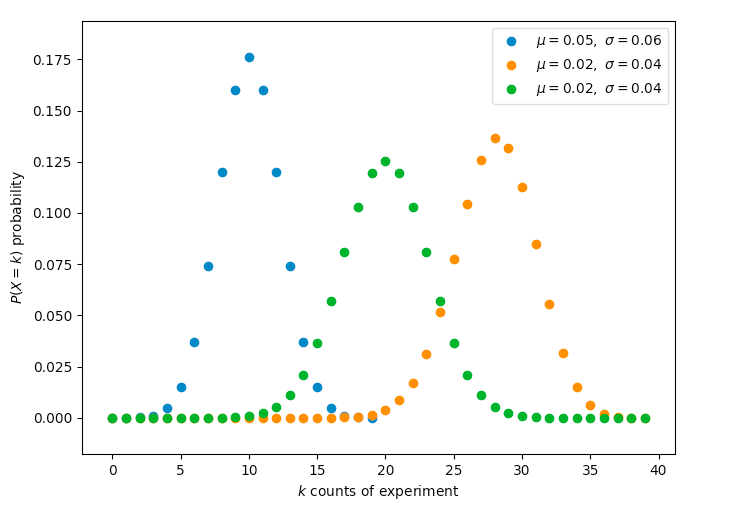
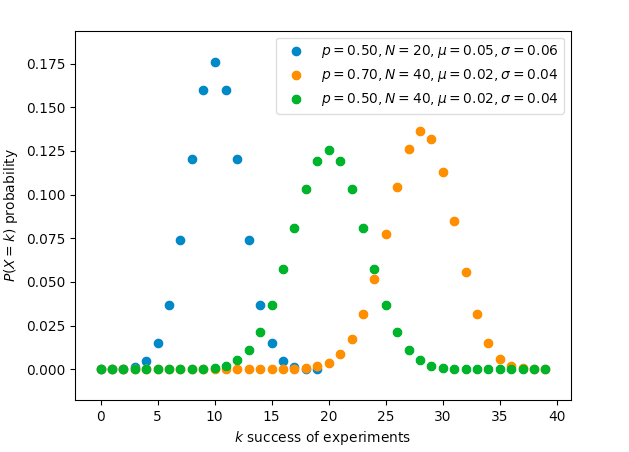
[Content] All_about_the_distribution multi-nomial 多項分佈

diff --git a/demo/multinomial.py b/demo/multinomial.py
@@ -15,6 +15,7 @@ def factorial(n):
 def const(n, a, b, c):
     """
         return n! / a! b! c!, where a+b+c == n
+        這裏只考慮的排列數，而沒有加入每個category的機率，因此output並分一個機率分佈
     """
     assert  a + b + c == n
 
@@ -29,6 +30,9 @@ def multinomial(n):
     :param p: list, sum(p) should be `1`
     """
     # get all a,b,c where a+b+c == n, a<b<c
+    # i,j,k,指的是發生事件的次數when n = 20, (i,j,k) = (1,1,18), (2,1,17),...
+    # 組合ls總共33種可能，接著再輸入const這個function
+    # 這裡忽略了(0,0,20)的可能性, 都從1開始
     ls = []
     for i in range(1, n + 1):
         for j in range(i, n + 1):
@@ -45,5 +49,7 @@ for n_experiment in [20, 21, 22]:
     plt.scatter(x, y, label=r'$trial=%d$' % (n_experiment))
 
 plt.legend()
+# plt.xlabel('k-th combination')
+plt.ylabel('Numbers of combination')
 plt.show()
 plt.savefig('graph/multinomial.png')

diff --git a/demo/binomial.py b/demo/binomial.py
@@ -23,10 +23,10 @@ for ls in [(0.5, 20), (0.7, 40), (0.5, 40)]:
     p, n_experiment = ls[0], ls[1]
     x = np.arange(n_experiment)
     y, u, s = binomial(n_experiment, p)
-    plt.scatter(x, y, label=r'$\mu=%.2f,\ \sigma=%.2f$' % (u, s))
+    plt.scatter(x, y, label=r'$ p=%.2f, N = %.0f, \mu=%.2f, \sigma=%.2f$' % (p, n_experiment, u, s))
 
 
-plt.xlabel('$k$ counts of experiment')
+plt.xlabel('$k$ success of experiments')
 plt.ylabel('$P(X=k)$ probability')
 plt.legend()
 plt.show()

diff --git a/All_about_the_distribution.md b/All_about_the_distribution.md
@@ -3,6 +3,8 @@
 * Modified : YLTsai0609 / distribution, and applications
 * spirit : Understanding first, mathematcs second.
 <img src ='/images/distribution_1.png'></img>
+* `conjugate`意思為共軛分佈
+[TODO] https://read01.com/7K2am8.html#.Xcw5gpIzZE4
 
 2. Bernoulli distribtuion(discrete), [code](demo/bernoulli.py)
    * 成功是1, 失敗是0，成功機率為p
@@ -11,8 +13,8 @@
    * 白努力分佈不考慮先驗機率(prior probability $P(x)$)，如果我們最大化可能性(likelihood)，我們非常容易overfitting
    * 二元分類問題所使用的loss function : **ninary cross entropy**在數學上的形式即一個  $-logP_{bernoulli}(x)$
 
-
-3. Binomial distribution(discrete), code
+<br>
+3. Binomial distribution(discrete), [code](/demo/binomial.py)
    * n個**獨立**的是/非試驗中成功次數的離散機率分佈
    * 就是多次的Bernoulli試驗，有成功機率$p$，有試驗數$n$，因此就有mean, variance, 形成一個distribution
 <img src ='/images/distribution_3.png'></img>
@@ -24,19 +26,52 @@
 $$
    * 參數: $n, p, k$
    * Binomial distribution is distribution considered prior probaility by specifying the number to be picked in advance.
+   * 舉例 : 
+     * 特定醫院特定一天中 : 出生的小孩有多少是女的
+     * 特定教室，多少學生是綠色眼睛
+     * 骰子共六面，摋出5,6算是成功，摋100次，成功73次的機率是多少
+     * 在一個城市做市場調查，連續遇到7喜歡喝珍珠奶茶的人的機率
+   * 應用場景 : 
 
-4. Multi-Bernoulli distribution (discrete), [code](demo/categorical.py)
+1. Multi-Bernoulli distribution (discrete), [code](demo/categorical.py)
    * a.k.a categorical distribution
    * 白努力分佈的多重版本，這裡舉例有3個類別
    * 一個隨機變數$X$，有0.7的機率指向到A事件，0.2的機率指向到B事件，0.1的機率指向到C事件
 <img src ='/images/distribution_4.png'></img>
 
-5. Multinomial distribution
+5. Multinomial distribution(discrete) [code](/demo/graph/multinomial.png)
    * 關係和Bernoulli <--> Bonominal 一樣, a.k.a 多項分佈
    * 熱力學有用到，可以找一下公式
    * n個**獨立**的A/B/C試驗中成功次數的離散機率分佈
-   * [TODO](https://baike.baidu.com/item/%E5%A4%9A%E9%A1%B9%E5%88%86%E5%B8%83)
-   * 就是多次的Bernoulli試驗，有成功機率$p$，有試驗數$n$，因此就有mean, variance, 形成一個distribution
+   * 一個骰子問題可以是4以上叫做成功，以下叫做失敗，則就會形成只有成功或失敗的形式，這個時候就是白努力試驗與二項分佈，當點數1~6的出現次數分別為(6,0,0,0,0,0)時的機率是多少，就是再說明一個多項分佈
+   * 從隨機變數$X$將會擴張成隨機向量$X=(X_{1},...,X_{6})$
+   * 可以得知一定是0~N項，而且每個事件發生的個數總和一定會是全部事件
+     * $X_{i}~>0, X_{1}+X_{2}+...+X_{n}=N$
+   * (6,0,0,0,0,0)的出現機率 : 
+   $$
+P(X_{1}=6, X_{2}=0,~...,X_{6}=0) = \frac{N!}{6!0!0!...0!} (p_{1})^{6}(p_{2})^{0}, ...(p_{6})^{0}
+$$
 
-
-* [Getting Start](http://itchen.class.kmu.edu.tw/kmu/book/Pro&Sta/stat-ch7.pdf)
+   * 此例中，取了一個可能性相當低的事件，且$p_{i}$皆為$\frac{1}{6}$
+   * General form
+$$
+P(X_{1}=m_{1}, X_{2}=m_{2},~...,X_{6}=m_{6}) = \frac{N!}{m_{1}!m_{2}!m_{3}!...m_{6}!} (p_{1})^{m_{1}}(p_{2})^{m_{2}}, ...(p_{6})^{m_{6}}
+$$
+Collect into  $\Pi$ : $$
+P(X_{1}=m_{1}, X_{2}=m_{2},~...,X_{6}=m_{6}) = \frac{N!}{\Pi_{i=1}^{N}m_{i}}\Pi_{i}^{N}(p_{i})^{m_{i}}
+$$
+   * 上述中我們稱隨機向量$X$服從多項分佈$X~～~PN(N, p_{1}, p_{2},...p_{k}) $
+   * 其中$X_{i}$
+     * 期望值$E(X_{i}) = np_{i}$
+     * 變異數$V(X_{i} = np_{i}(1-p_{i})$
+     * 共變數 $Cov(x_{i}, x_{j}) = -np_{i}p_{j}$
+<img src ='/images/distribution_5.png'></img> 
+trial : 試驗總數, 即 n_experments
+   * 可以透過組合個數，各category的出現機率，在合理的假設之下，推論接下來某個組合的出現機率，參考Reference
+   * 舉例 : 
+     * 一個骰子共六面，摋100次，出現$(X_{1} = 100, X_{2}=0,...X_{6}=0)$的機率是多少
+     * 在城市中做市場調查，以年輕人為例，假設年輕人喜歡5種飲料店且沒有例外，遇到組合為A,A,A,B,D組合的機率是多少(注意假設) 
+****
+* [Multi-nomial distribution-1](https://baike.baidu.com/item/%E5%A4%9A%E9%A1%B9%E5%88%86%E5%B8%83)
+* [Multi-nomial distribution-2](http://www.math.ncu.edu.tw/~yu/ps99/boards/lec41_ps_99.pdf)
+* [Multi-nomial distribution-3](http://eschool.kuas.edu.tw/tsungo/Publish/05%20Discrete%20probability%20distribution.pdf)

diff --git a/bash.md b/bash.md
@@ -11,6 +11,7 @@
 |`ifconfig`|查自己的這台的ip||
 |`ipython` `import socket` `socket.gethostbyname('deviceName')`|從A主機經由同網域的連線查詢B主機的ip|ipython要pytho3.5以上才支援|
 |`ping` ip adress|從A主機經由同網域的連線查詢B主機目前的連接狀況及速度(time out, or speed xx/ms)|ping = 戳，測自己網速可以搭配內部迴圈網路 127.0.0.1|
+|`nmap` IP/DNS|查詢子網域內所有ip以及DNS，有ip, 如果該機台有ssh, 就能夠進入 掃描範例 : `nmap 192.169.0.*` 掃描此之下所有子網域, `nmap www.hinet.net` 透過DNS。掃描需要一段時間|`nmap`需要安裝，mac透過`brew`, ubuntu透過`apt`，DNS全名為Domain Name System|
 |`scp userName@ip adress:filePath MyfilePath`|已知主機filePath，從主機抓檔案/資料夾到本地端||
 |`scp MyfilePath userName@ip adress:filePath`|把本地端的檔案copy到主機端的目錄|
 |`ssh userName@ip adress`|經由ssh連線到主機端，但主機端需要是一個ssh server，或是有給予ssh金鑰|mac需要打開"允許遠端登入" "系統偏好設定" --> "共享" --> "遠端登入"|
